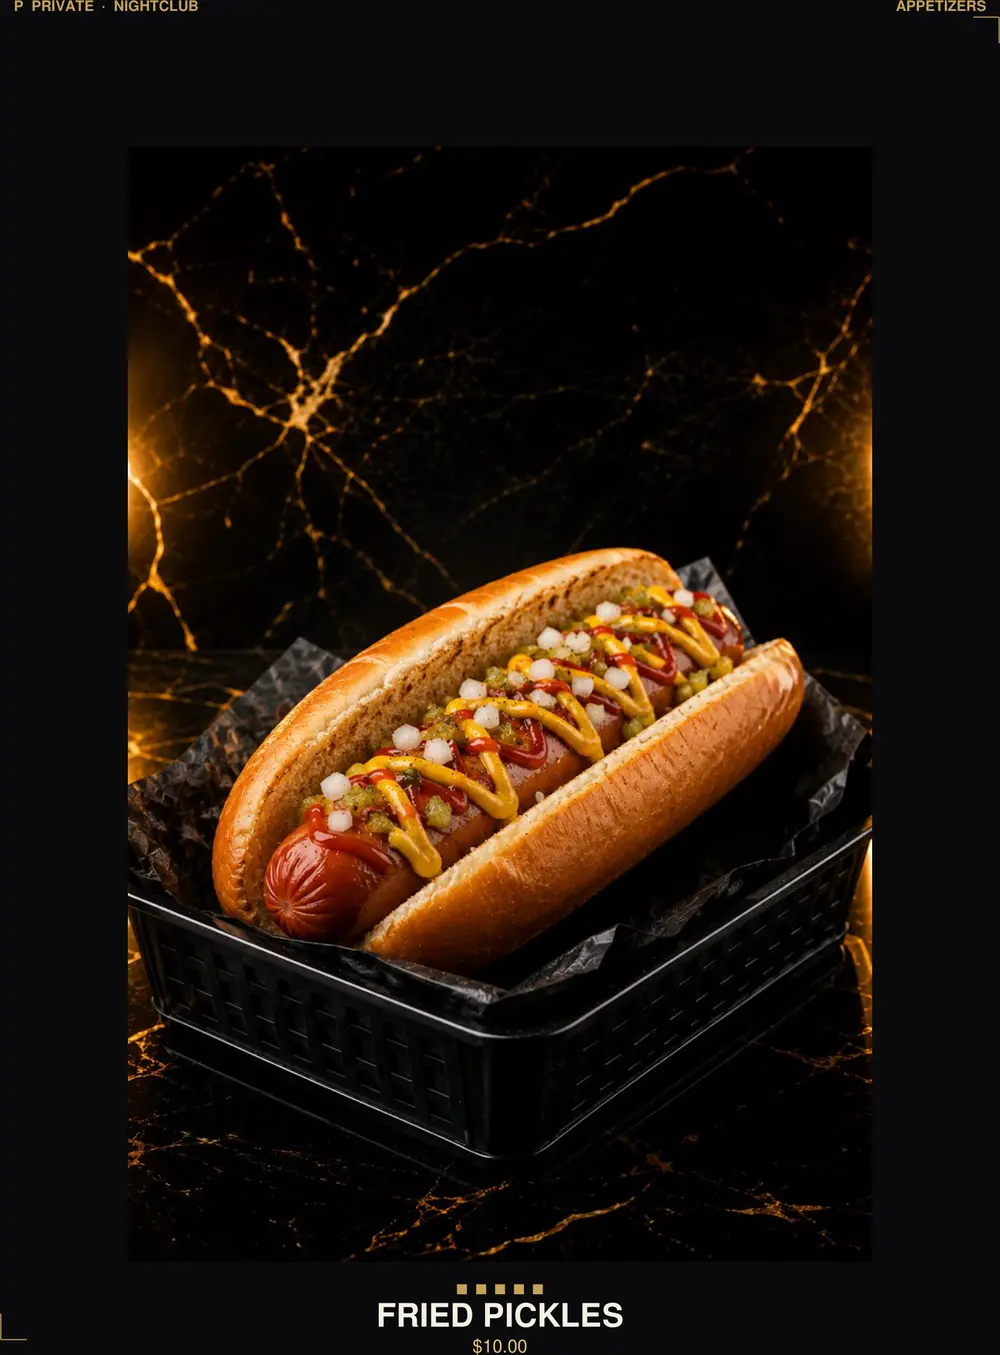
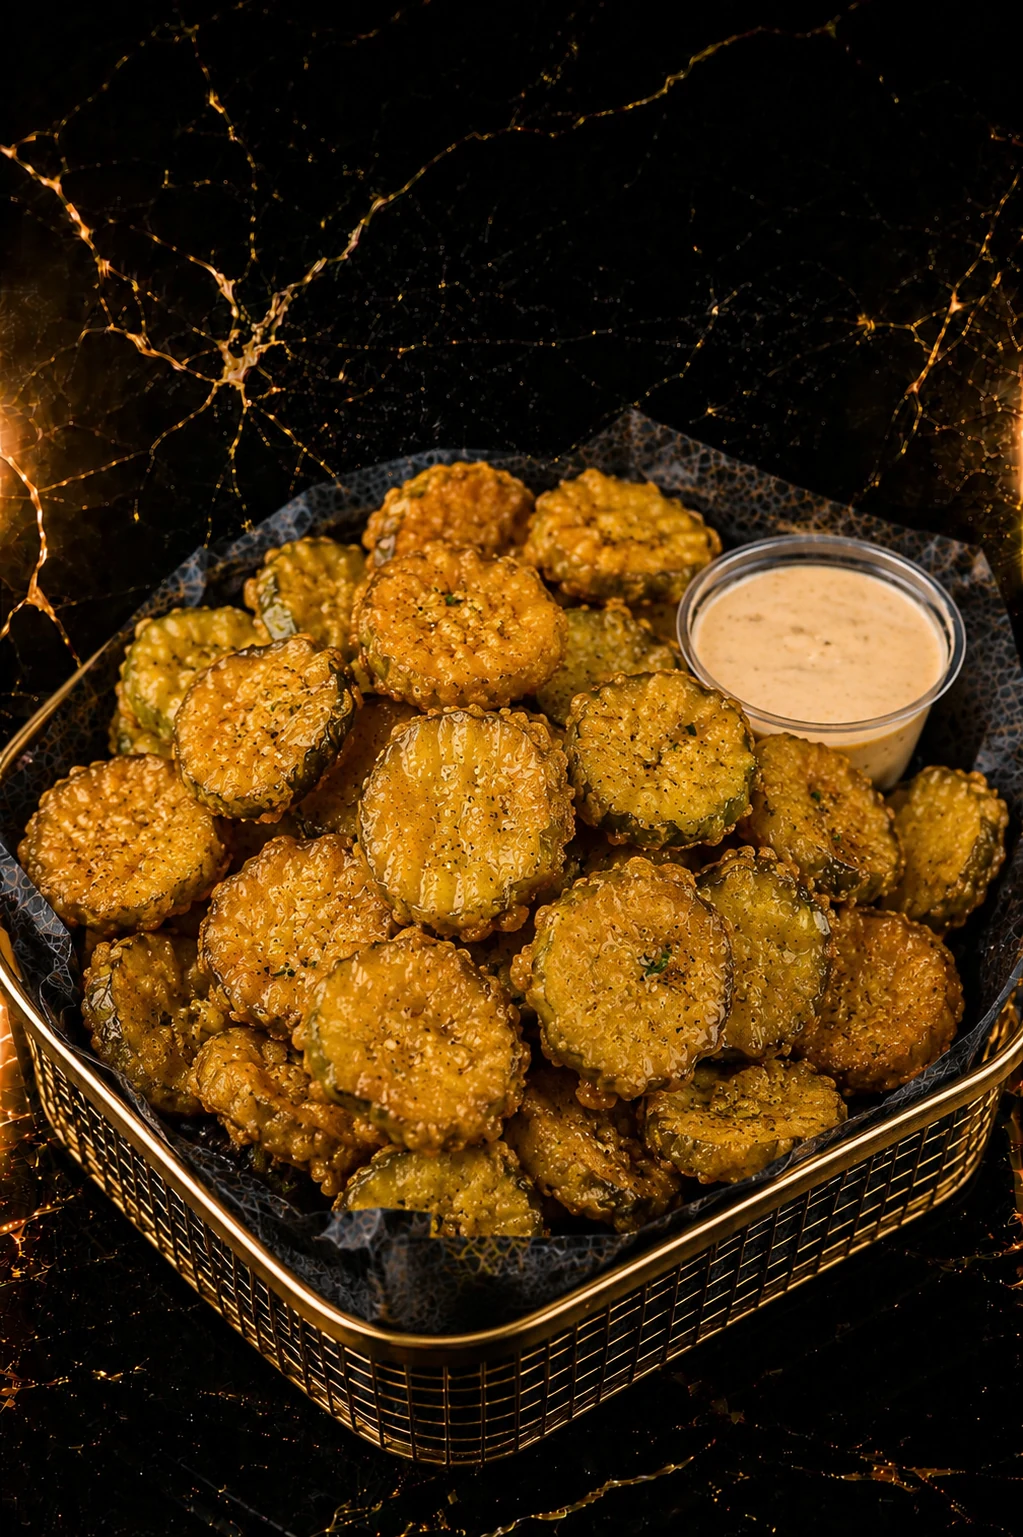
Menu: use owner's real Fried Pickles photo for food-13
Replaced the mismatched hot-dog image on the Fried Pickles card with the
owner-supplied photo from Google Drive (golden battered pickle chips, gold
basket, matching the card style).

Claude-Session: https://claude.ai/code/session_01LArLZQWeNJkpCk8BASdQG5

diff --git a/private-nightclub/src/lib/site.ts b/private-nightclub/src/lib/site.ts
@@ -267,7 +267,7 @@ export const foodSelectItems: MenuSelectItem[] = [
   { name: "Beef Toasted Ravioli", category: "Appetizers", price: "10", note: "St. Louis style, marinara.", img: "/menu/food/food-12.webp" },
   { name: "Buffalo Shrimp", category: "Appetizers", price: "12", note: "Crispy shrimp tossed in buffalo.", img: "/menu/food/food-15.webp" },
   { name: "Buffalo Cauliflower", category: "Appetizers", price: "10", note: "Crispy cauliflower, buffalo sauce.", img: "/menu/food/food-14.webp" }, // PHOTO shows pizza — regenerate
-  { name: "Fried Pickles", category: "Appetizers", price: "10", note: "Hand-battered dill pickles.", img: "/menu/food/food-13.webp" }, // PHOTO shows hot dog — regenerate
+  { name: "Fried Pickles", category: "Appetizers", price: "10", note: "Hand-battered dill pickles.", img: "/menu/food/food-13.webp" }, // real photo (owner-supplied)
   // FROM THE GRILL
   { name: "All Beef Hot Dog", category: "From the Grill", price: "7", note: "Quarter-pound all-beef dog.", img: "/menu/food/food-17.webp" }, // PHOTO shows bites — regenerate
   { name: "Cheeseburger", category: "From the Grill", price: "12", note: "Char-grilled, American cheese.", img: "/menu/food/food-16.webp" }, // PHOTO shows pizza — regenerate